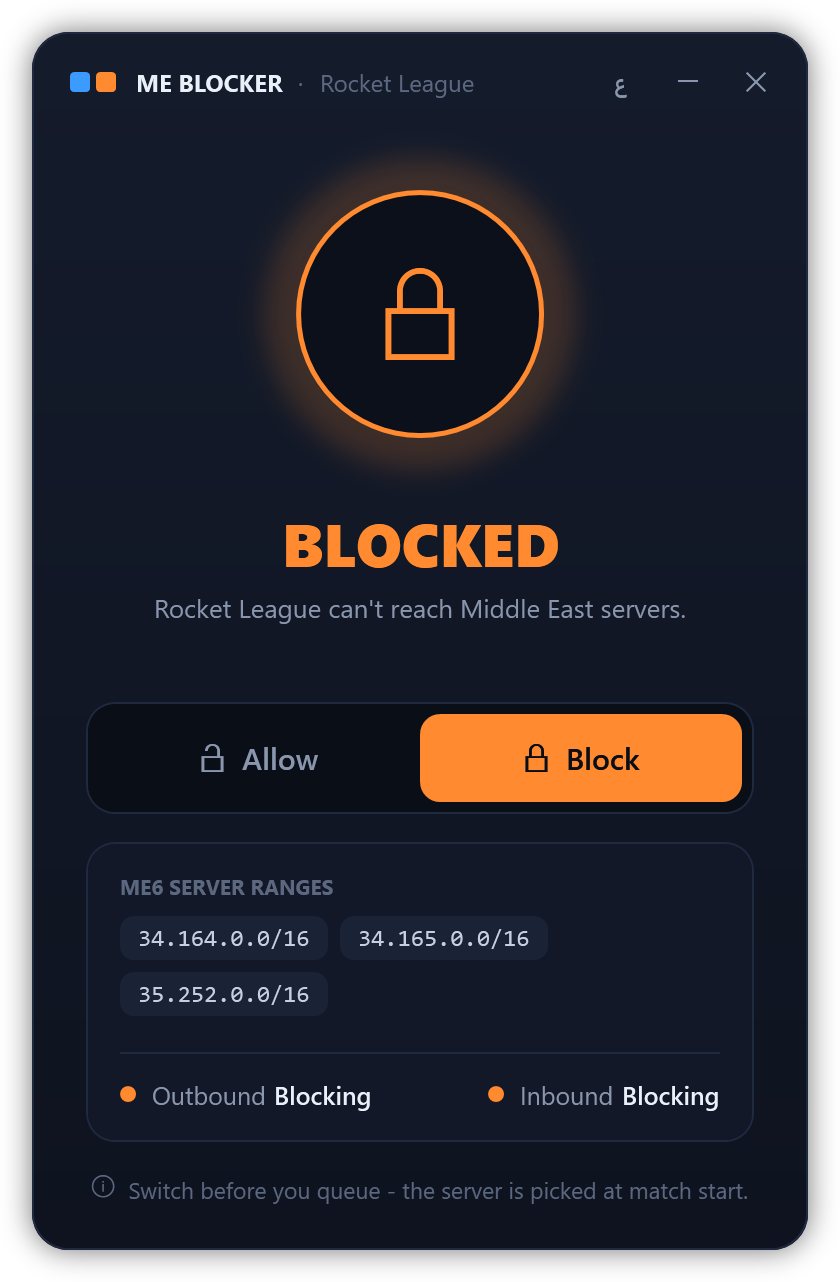
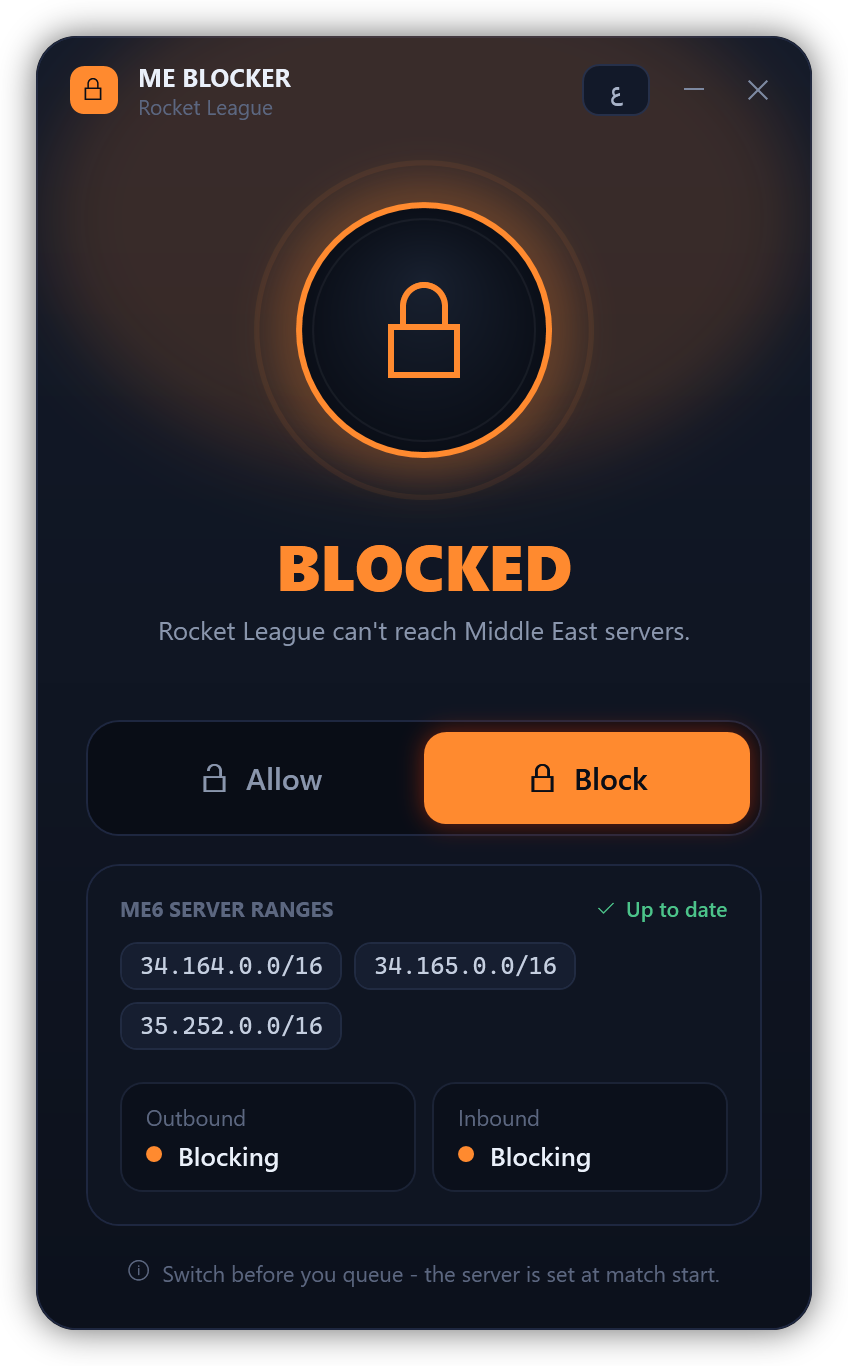
v1.1.0: refreshed look, Thmanyah Sans for Arabic
- State-colored glow, pulsing ring while blocked, status badge in title bar
- Hover/press feedback on the switch, direction cards, fade-in on open
- "Up to date" tag once the online range list is confirmed
- Arabic UI uses Thmanyah Sans when installed (system or per-user fonts)
- Installer and README note the zip/folder can be deleted after install

diff --git a/README.ar.md b/README.ar.md
@@ -18,7 +18,7 @@
    - إذا ظهرت رسالة *"Windows protected your PC"* اضغط **More info** ثم **Run anyway**. تظهر هذه الرسالة لأن البرنامج غير موقّع رقمياً، والكود كاملاً موجود هنا في المستودع لمن يريد مراجعته.
 4. اضغط **نعم (Yes)** عندما يطلب ويندوز الإذن، لأن تعديل قواعد الجدار الناري يحتاج صلاحيات المسؤول.
 
-ستجد اختصار **RL ME Blocker** على سطح المكتب وفي قائمة ابدأ.
+ستجد اختصار **RL ME Blocker** على سطح المكتب وفي قائمة ابدأ. البرنامج يُنسخ إلى <span dir="ltr">`%LOCALAPPDATA%\RL-ME-Blocker`</span>، لذلك **يمكنك حذف ملف الـ zip والمجلد المستخرج بعد التثبيت**.
 
 <details>
 <summary>تفضّل أمراً واحداً؟ (PowerShell)</summary>
@@ -38,12 +38,13 @@ irm https://raw.githubusercontent.com/bassam-2023/rl-me-blocker/main/src/install
 - **بدّل قبل البحث عن مباراة.** السيرفر يُحدَّد عند بداية المباراة، لذلك التبديل أثناء المباراة لا يغيّر شيئاً.
 - أيقونة سطح المكتب تتغير حسب الحالة: قفل برتقالي يعني محظور، وقفل أزرق مفتوح يعني مسموح.
 - زر **ع / EN** في أعلى النافذة يبدّل بين العربية والإنجليزية.
+- **الخط العربي:** إذا كان خط [ثمانية (Thmanyah Sans)](https://font.thmanyah.com) المجاني مثبّتاً على جهازك، تستخدمه الواجهة العربية تلقائياً، وإلا فتستخدم Segoe UI. رخصة الخط لا تسمح بإرفاقه مع البرنامج، لذلك حمّله من موقعه الرسمي.
 
 الحظر يبقى مفعّلاً حتى توقفه بنفسك، حتى بعد إعادة تشغيل الجهاز.
 
 ## الإزالة
 
-افتح **الإعدادات ← التطبيقات**، ابحث عن **RL ME Blocker** واضغط **إلغاء التثبيت**. يمكنك أيضاً الضغط مرتين على `Uninstall.cmd` في المجلد المستخرج.
+افتح **الإعدادات ← التطبيقات**، ابحث عن **RL ME Blocker** واضغط **إلغاء التثبيت**. وإذا كان المجلد المستخرج ما زال عندك، يمكنك أيضاً الضغط مرتين على `Uninstall.cmd` فيه.
 
 في الحالتين تُحذف قواعد الجدار الناري والاختصارات والملفات كلها.
 

diff --git a/README.md b/README.md
@@ -16,7 +16,7 @@ It adds two rules to Windows Firewall that block the ME6 server addresses. It do
    - If Windows shows *"Windows protected your PC"*, click **More info → Run anyway**. The warning appears because the tool isn't code-signed. All the code is in this repo if you want to check it.
 4. Click **Yes** when Windows asks for permission. Changing firewall rules needs administrator rights.
 
-You'll get an **RL ME Blocker** shortcut on your Desktop and in the Start menu.
+You'll get an **RL ME Blocker** shortcut on your Desktop and in the Start menu. The app is copied to `%LOCALAPPDATA%\RL-ME-Blocker`, so **you can delete the zip and the extracted folder afterwards**.
 
 <details>
 <summary>Prefer one command? (PowerShell)</summary>
@@ -33,12 +33,13 @@ irm https://raw.githubusercontent.com/bassam-2023/rl-me-blocker/main/src/install
 - **Switch before you queue.** The server is chosen when the match starts, so switching mid-match does nothing.
 - The Desktop icon changes to show the current state: an orange lock means blocked, a blue open lock means allowed.
 - The **ع / EN** button in the title bar switches between Arabic and English.
+- **Arabic font:** if the free [Thmanyah Sans (ثمانية)](https://font.thmanyah.com) font is installed, the Arabic interface uses it. Otherwise it uses Segoe UI. Its license doesn't allow bundling the font, so download it from the official site.
 
 The block stays on until you switch it off, including after a restart.
 
 ## Uninstall
 
-Go to **Settings → Apps**, find **RL ME Blocker**, and click **Uninstall**. You can also double-click `Uninstall.cmd` in the extracted folder.
+Go to **Settings → Apps**, find **RL ME Blocker**, and click **Uninstall**. If you still have the extracted folder, you can also double-click `Uninstall.cmd` in it.
 
 Either way, the firewall rules, shortcuts and files are all removed.
 
